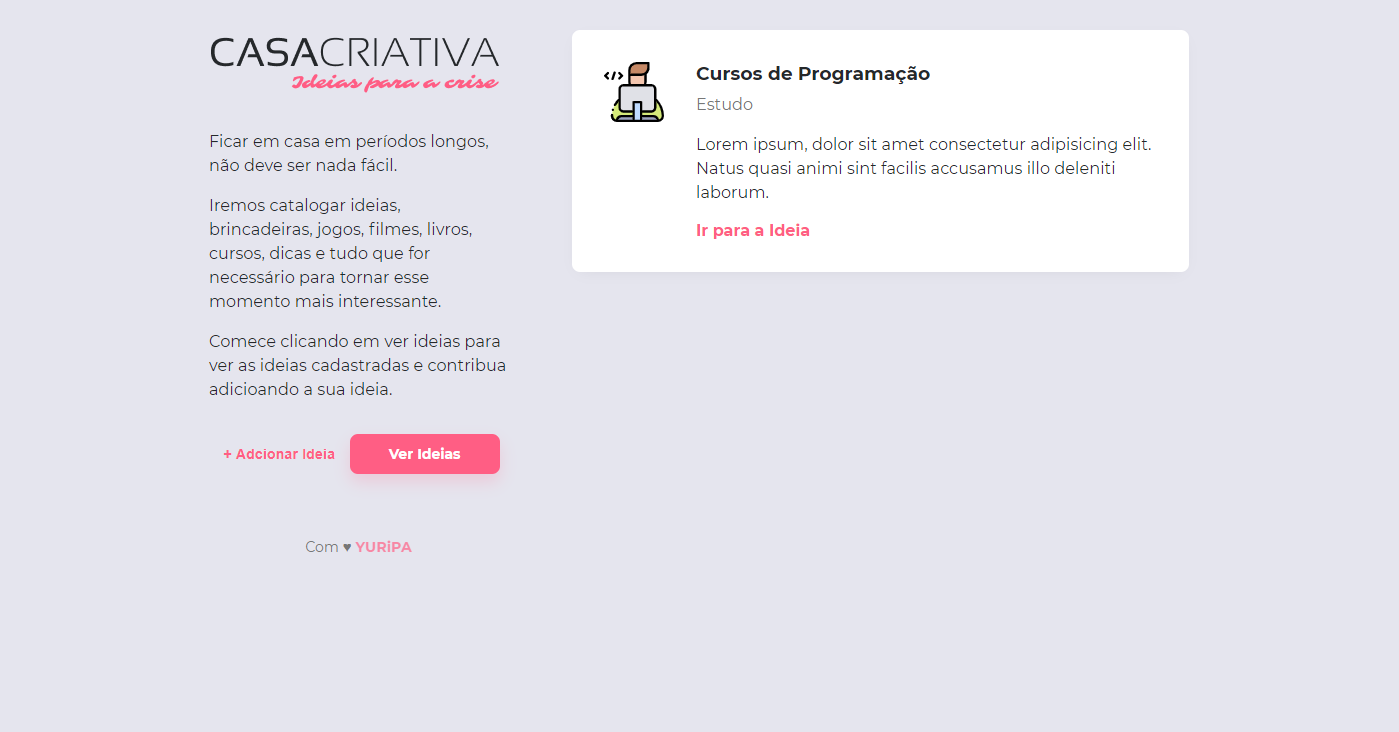
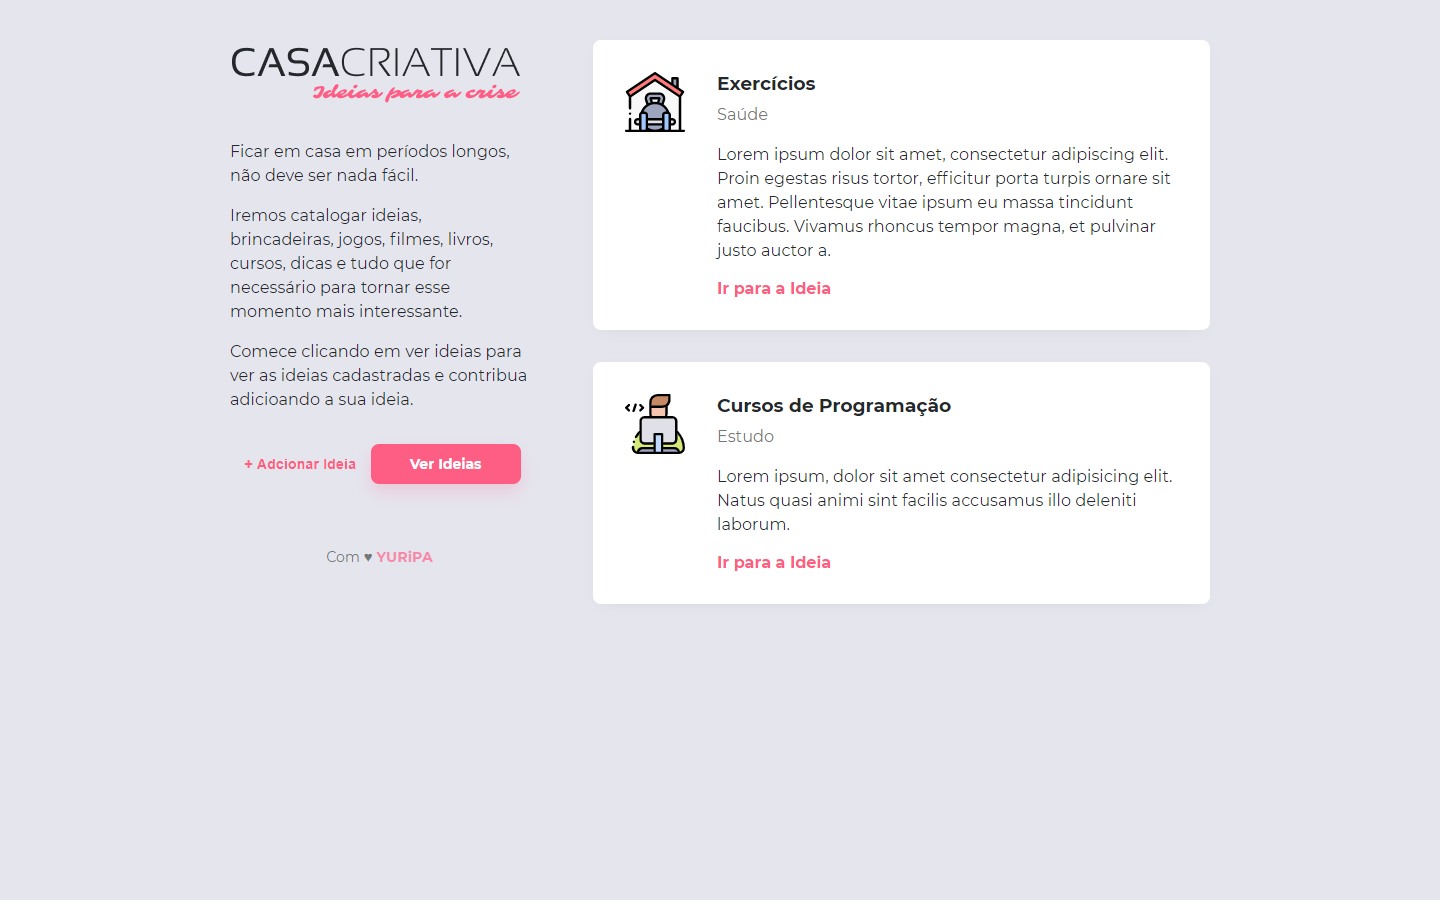
:tada: change projetos section to flexbox model

diff --git a/index.html b/index.html
@@ -58,107 +58,62 @@
 
     </section>
 
-    <section class="projetos container" id="projetos">
-
+    <section class="projetos" id="projetos">
       <h2>Projetos</h2>
-
-      <div class="grid">
+      
+      <div class="flex">
 
         <div class="card">
-        
           <div class="card-content">
-
-            <figure class="card-front">
-              <img class="img-projetos" src="./img/doe.png" alt="Doe">
-            </figure>
+            <img src="./img/doe.png" alt="Projeto DOE">
             
             <div class="card-back">
-              <p>Projeto de uma aplicação para doação de sangue feito durante uma MaratonaDev da Rocketseat. 
-                <span>
-                  Clique no link abaixo para acessar no GitHub.
-                </span>
-              </p>
-            </div> 
-
+              <p>Projeto de uma aplicação para doação de sangue feito durante uma MaratonaDev da Rocketseat.</p>
+              <span>Clique no link abaixo para acessar no GitHub.</span>
+            </div>
           </div>
-
-          <figcaption><a target="blank" href="https://github.com/yuripa07">DOE</a></figcaption>
-
+          <p><a target="blank" href="https://github.com/yuripa07">Projeto DOE</a></p>
         </div>
 
         <div class="card">
-        
           <div class="card-content">
-
-            <figure class="card-front">
-              <img class="img-projetos" src="./img/casa-criativa.png" alt="Casa Criativa">
-            </figure>
+            <img src="./img/casa-criativa.png" alt="Projeto Casa Criativa">
             
             <div class="card-back">
-              <p>Projeto de uma aplicação para cadastramento de ideias para fazer em casa feito durante um Workshop da Rocketseat. 
-                <span>
-                  Clique no link abaixo para acessar no GitHub.
-                </span>
-              </p>
-            </div> 
-
+              <p>Projeto de uma aplicação para cadastramento de ideias para fazer em casa feito durante um Workshop da Rocketseat.</p>
+              <span>Clique no link abaixo para acessar no GitHub.</span>
+            </div>
           </div>
+          <p><a target="blank" href="https://github.com/yuripa07">Casa Criativa</a></p>
+        </div>  
 
-          <figcaption><a target="blank" href="https://github.com/yuripa07">Casa Criativa</a></figcaption>
-
+        <div class="card">
+          <div class="card-content">
+            <img src="./img/pagina-pessoal-launchbase.png" alt="Página Pessoal Launchbase">
+            
+            <div class="card-back">
+              <p>Projeto de uma página pessoal desenvolvido dentro do bootcamp Launchbase da Rocketseat.</p>
+              <span>Clique no link abaixo para acessar no GitHub.</span>
+            </div>
+          </div>
+          <p><a target="blank" href="https://yuripa07.github.io/desafio-2-2-rocketseat-launchbase">Página Pessoal Launchbase</a></p>
         </div>
 
         <div class="card">
-        
           <div class="card-content">
-
-            <figure class="card-front">
-              <img class="img-projetos" src="./img/pagina-pessoal-rocketseat.png" alt="Página Pessoal Launchbase">
-            </figure>
+            <img src="./img/pagina-pessoal-alura.png" alt="Página Pessoal Alura">
             
             <div class="card-back">
-              <p>Projeto de uma página pessoal desenvolvido dentro do bootcamp Launchbase da Rocketseat. 
-                <span>
-                  Clique no link abaixo para acessar no GitHub.
-                </span>
-              </p>
-            </div> 
-
+              <p>Projeto de uma página pessoal desenvolvido durante a ImersãoCSS da Alura.</p>
+              <span>Clique no link abaixo para acessar no GitHub.</span>
+            </div>
           </div>
-
-          <figcaption><a target="blank" href="https://yuripa07.github.io/desafio-2-2-rocketseat-launchbase/">Página Pessoal Launchbase</a></figcaption>
-
+          <p><a target="blank" href="#">Página Pessoal Alura</a></p>
         </div>
-
-        <div class="card">
         
-          <div class="card-content">
 
-            <figure class="card-front">
-              <img class="img-projetos" src="./img/pagina-pessoal-alura.png" alt="Página Pessoal Alura">
-            </figure>
-            
-            <div class="card-back">
-              <p>Projeto de uma página pessoal desenvolvido durante a ImersãoCSS da Alura. 
-                <span>
-                  Clique no link abaixo para acessar no GitHub.
-                </span>
-              </p>
-            </div> 
-
-          </div>
-
-          <figcaption><a target="blank" href="https://yuripa07.github.io/imersaocss-alura/">Página Pessoal Alura</a></figcaption>
-
-        </div>
-
-
-        
-        
-        
       
       </div>
-
     </section>
 
     <section class="contato container" id="contato">

diff --git a/style.css b/style.css
@@ -6,6 +6,12 @@
 
 html {
     scroll-behavior: smooth;
+    scroll-padding: 20px;
+}
+
+img {
+    max-width: 100%;
+    display: block;
 }
 
 :root {
@@ -13,17 +19,14 @@ html {
 }
 
 body {
-    /* background-image: url("fundo.gif");
-    background-size: auto 100vh; */
+    background-repeat: no-repeat;
     background-color: #292828;
-    font-family: Arial, sans-serif;
     height: 100vh;
     font-size: 12px;
     font-family: 'Roboto', sans-serif;
     background-image: url(img/fundo.jpg);
     background-attachment: fixed;
     background-size: 100%;
-    /* position: relative; */
 }
 
 .botao {
@@ -189,128 +192,81 @@ a {
     text-align: justify;
 }
 
+/***** PROJETOS *****/
 .projetos {
-    background-color: #141414;
+    min-height: 100vh;
+    max-width: 1200px;
+    background: #141414;
+    margin: 0 auto;
 }
 
-.projetos .grid {
-    display: grid;
-    gap: 2em;
+.flex {
+    display: flex;
+    flex-wrap: wrap;
+    max-width: 1200px;
+    margin: 0 auto;
 }
 
-@media (min-width: 560px) {
-    .projetos .grid {
-        grid-template-columns: 1fr 1fr;
-    }
-}
-
-@media (min-width: 880px) {
-    .projetos .grid {
-        grid-template-columns: 1fr 1fr 1fr;
-    }
-}
-
-.projetos figure {
-    text-align: center;
+.flex div {
+    flex: 1 1 300px;
+    margin: 10px;
 }
 
 .card-content {
     position: relative;
+    display: flex;
+    flex-wrap: wrap;
 }
 
-.img-projetos {
-    width: 100%;
-    height: 200px;
-    object-fit: cover;
-    /* transition: transform 300ms; */
-}
-
-
-/* .card-back::after {
-    content: "";
-    width: 100%;
-    height: 0;
-    background-color: deeppink;
+.flex div .card-back {
     position: absolute;
-    left: 0;
-    top: 0;
-    text-align: center;
-}
-
-.card-back:hover::after {
-    height: 100%;
-    transition: height 400ms ease-in-out;
-} */
-
-.card-back {
-    position: absolute;
+    margin: 0px;
     top: 0;
     left: 0;
     background-color: var(--primary-color);
-    height: 200px;
+    height: 100%;
     width: 100%;
     opacity: 0;
-}
-
+} 
 
 .card-back p {
-    padding: 24px 12px;
-    justify-content: center;
-    text-align: center;
     color: white;
-    font-size: 18px;
-    box-sizing: initial;
-}
-
-@media (min-width: 600px) {
-    .card-back p {
-        /* padding: 24px 12px; */
-        text-align: center;
-        color: white;
-    }  
+    padding: 20px 20px;
+    text-align: center;
 }
 
 .card-back span {
-    color: black;
     display: block;
-    margin-top: 12px;
-    transition: color 200ms;
+    color: black;
+    padding: 0 20px;
     text-align: center;
 }
 
-figcaption a {
-    color: white;
-    display: block;
-    font-size: 18px;
-    text-decoration: underline;
-    text-decoration-color: var(--primary-color);
-    
+.flex div .card-back:hover {
+    opacity: 0.9;
+    transition: opacity 300ms ease-in-out;
 }
 
-figcaption a:hover {
-    border-bottom: none;
-    color: var(--primary-color);
+.card p {
+    text-align: center;
+}
+
+.card a {
+    text-decoration: underline;
+    text-decoration-color: var(--primary-color);
+}
+
+.card a:hover {
     text-decoration: none;
+    color: var(--primary-color);
     transition: 300ms;
 }
 
 
-.card-back:hover {
-    opacity: 0.9;
-    height: 200px;
-    transition: opacity 300ms ease-in-out;
-}
-
-.card figcaption {
-    color: white;
-    text-align: center;
-    margin-top: 12px;
-}
-
-
+/***** CONTATO *****/
 .contato {
     background-color: #292828;
-    height: 90vh;
+    min-height: 90vh;
     padding: 2em;
 }
 
